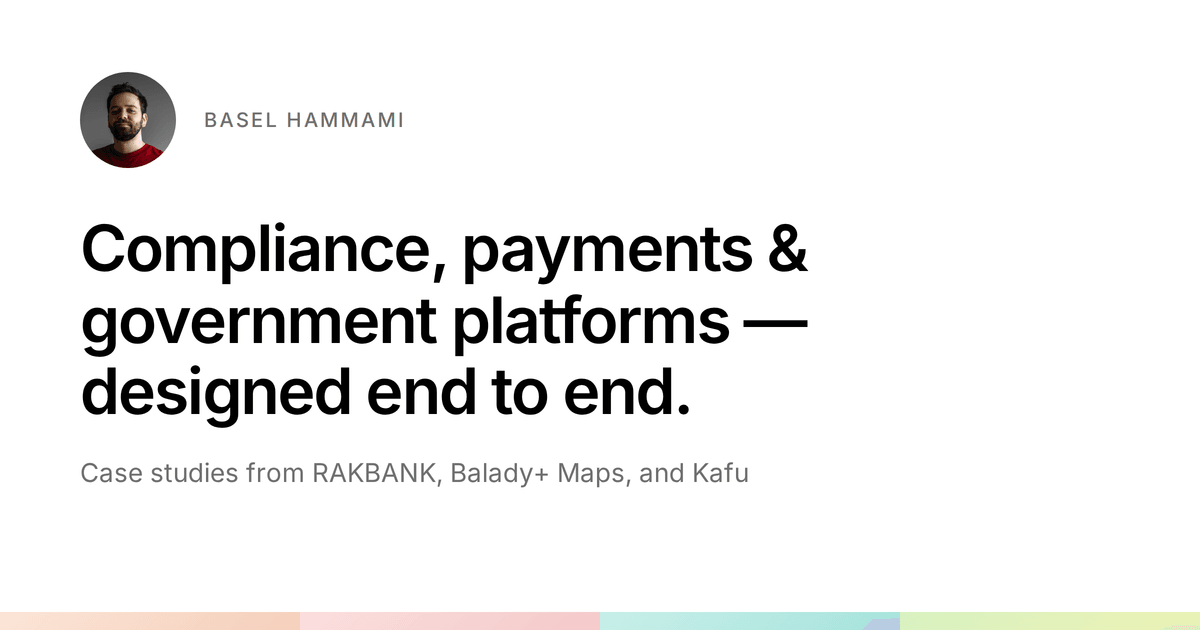
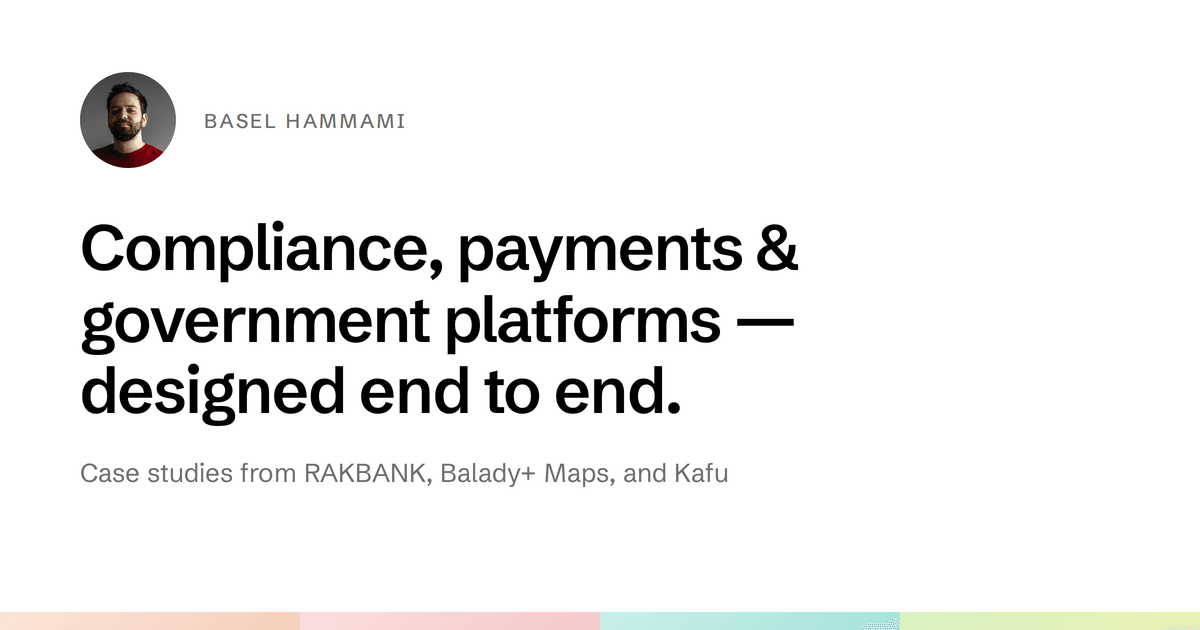
Adopt Schibsted Grotesk site-wide with Inter fallback
Google Fonts request now loads Schibsted Grotesk (400-800) alongside
Inter; the body stack and --font-sans lead with it. Cyrillic text on the
Russian pages falls back to Inter, which covers it. OG share image
regenerated in the new face.

Claude-Session: https://claude.ai/code/session_01WUu2miV5DLnuMkYZak3EoN

diff --git a/styles.css b/styles.css
@@ -8,6 +8,8 @@
   --radius-pill: 999px;
   --ease-out: cubic-bezier(0.22, 1, 0.36, 1);
   --ease-in-out: cubic-bezier(0.4, 0, 0.2, 1);
+  --font-sans: "Schibsted Grotesk", "Inter", -apple-system, BlinkMacSystemFont,
+    "Segoe UI", Roboto, "Helvetica Neue", Arial, sans-serif;
 }
 
 /* ==========================================================================
@@ -126,8 +128,8 @@ body {
 body {
   background: var(--bg);
   color: var(--fg);
-  font-family: "Inter", -apple-system, BlinkMacSystemFont, "Segoe UI", Roboto,
-    "Helvetica Neue", Arial, sans-serif;
+  font-family: "Schibsted Grotesk", "Inter", -apple-system, BlinkMacSystemFont,
+    "Segoe UI", Roboto, "Helvetica Neue", Arial, sans-serif;
   font-size: 16px;
   line-height: 1.5;
   -webkit-font-smoothing: antialiased;

diff --git a/case-mtmx-ru.html b/case-mtmx-ru.html
@@ -18,10 +18,10 @@
     <link rel="preconnect" href="https://fonts.googleapis.com" />
     <link rel="preconnect" href="https://fonts.gstatic.com" crossorigin />
     <link
-      href="https://fonts.googleapis.com/css2?family=Inter:wght@300;400;500;600;700;800&display=swap"
+      href="https://fonts.googleapis.com/css2?family=Schibsted+Grotesk:wght@400;500;600;700;800&family=Inter:wght@300;400;500;600;700;800&display=swap"
       rel="stylesheet"
     />
-    <link rel="stylesheet" href="styles.css?v=47" />
+    <link rel="stylesheet" href="styles.css?v=48" />
     <script defer src="script.js?v=7"></script>
   </head>
   <body class="n-bg n-rakbank">

diff --git a/case-mtmx.html b/case-mtmx.html
@@ -18,10 +18,10 @@
     <link rel="preconnect" href="https://fonts.googleapis.com" />
     <link rel="preconnect" href="https://fonts.gstatic.com" crossorigin />
     <link
-      href="https://fonts.googleapis.com/css2?family=Inter:wght@300;400;500;600;700;800&display=swap"
+      href="https://fonts.googleapis.com/css2?family=Schibsted+Grotesk:wght@400;500;600;700;800&family=Inter:wght@300;400;500;600;700;800&display=swap"
       rel="stylesheet"
     />
-    <link rel="stylesheet" href="styles.css?v=47" />
+    <link rel="stylesheet" href="styles.css?v=48" />
     <script defer src="script.js?v=7"></script>
   </head>
   <body class="n-bg n-rakbank">

diff --git a/case-rakbank-ru.html b/case-rakbank-ru.html
@@ -18,10 +18,10 @@
     <link rel="preconnect" href="https://fonts.googleapis.com" />
     <link rel="preconnect" href="https://fonts.gstatic.com" crossorigin />
     <link
-      href="https://fonts.googleapis.com/css2?family=Inter:wght@300;400;500;600;700;800&display=swap"
+      href="https://fonts.googleapis.com/css2?family=Schibsted+Grotesk:wght@400;500;600;700;800&family=Inter:wght@300;400;500;600;700;800&display=swap"
       rel="stylesheet"
     />
-    <link rel="stylesheet" href="styles.css?v=47" />
+    <link rel="stylesheet" href="styles.css?v=48" />
     <script defer src="script.js?v=7"></script>
   </head>
   <body class="n-bg n-rakbank">

diff --git a/case-rakbank.html b/case-rakbank.html
@@ -18,10 +18,10 @@
     <link rel="preconnect" href="https://fonts.googleapis.com" />
     <link rel="preconnect" href="https://fonts.gstatic.com" crossorigin />
     <link
-      href="https://fonts.googleapis.com/css2?family=Inter:wght@300;400;500;600;700;800&display=swap"
+      href="https://fonts.googleapis.com/css2?family=Schibsted+Grotesk:wght@400;500;600;700;800&family=Inter:wght@300;400;500;600;700;800&display=swap"
       rel="stylesheet"
     />
-    <link rel="stylesheet" href="styles.css?v=47" />
+    <link rel="stylesheet" href="styles.css?v=48" />
     <script defer src="script.js?v=7"></script>
   </head>
   <body class="n-bg n-rakbank">

diff --git a/case-balady-ru.html b/case-balady-ru.html
@@ -18,10 +18,10 @@
     <link rel="preconnect" href="https://fonts.googleapis.com" />
     <link rel="preconnect" href="https://fonts.gstatic.com" crossorigin />
     <link
-      href="https://fonts.googleapis.com/css2?family=Inter:wght@300;400;500;600;700;800&display=swap"
+      href="https://fonts.googleapis.com/css2?family=Schibsted+Grotesk:wght@400;500;600;700;800&family=Inter:wght@300;400;500;600;700;800&display=swap"
       rel="stylesheet"
     />
-    <link rel="stylesheet" href="styles.css?v=47" />
+    <link rel="stylesheet" href="styles.css?v=48" />
     <script defer src="script.js?v=7"></script>
   </head>
   <body class="n-bg n-balady">

diff --git a/case-balady.html b/case-balady.html
@@ -18,10 +18,10 @@
     <link rel="preconnect" href="https://fonts.googleapis.com" />
     <link rel="preconnect" href="https://fonts.gstatic.com" crossorigin />
     <link
-      href="https://fonts.googleapis.com/css2?family=Inter:wght@300;400;500;600;700;800&display=swap"
+      href="https://fonts.googleapis.com/css2?family=Schibsted+Grotesk:wght@400;500;600;700;800&family=Inter:wght@300;400;500;600;700;800&display=swap"
       rel="stylesheet"
     />
-    <link rel="stylesheet" href="styles.css?v=47" />
+    <link rel="stylesheet" href="styles.css?v=48" />
     <script defer src="script.js?v=7"></script>
   </head>
   <body class="n-bg n-balady">

diff --git a/case-cram-ru.html b/case-cram-ru.html
@@ -12,10 +12,10 @@
     <link rel="preconnect" href="https://fonts.googleapis.com" />
     <link rel="preconnect" href="https://fonts.gstatic.com" crossorigin />
     <link
-      href="https://fonts.googleapis.com/css2?family=Inter:wght@300;400;500;600;700;800&display=swap"
+      href="https://fonts.googleapis.com/css2?family=Schibsted+Grotesk:wght@400;500;600;700;800&family=Inter:wght@300;400;500;600;700;800&display=swap"
       rel="stylesheet"
     />
-    <link rel="stylesheet" href="styles.css?v=47" />
+    <link rel="stylesheet" href="styles.css?v=48" />
     <script defer src="script.js?v=7"></script>
   </head>
   <body class="n-bg n-cram">

diff --git a/case-cram.html b/case-cram.html
@@ -12,10 +12,10 @@
     <link rel="preconnect" href="https://fonts.googleapis.com" />
     <link rel="preconnect" href="https://fonts.gstatic.com" crossorigin />
     <link
-      href="https://fonts.googleapis.com/css2?family=Inter:wght@300;400;500;600;700;800&display=swap"
+      href="https://fonts.googleapis.com/css2?family=Schibsted+Grotesk:wght@400;500;600;700;800&family=Inter:wght@300;400;500;600;700;800&display=swap"
       rel="stylesheet"
     />
-    <link rel="stylesheet" href="styles.css?v=47" />
+    <link rel="stylesheet" href="styles.css?v=48" />
     <script defer src="script.js?v=7"></script>
   </head>
   <body class="n-bg n-cram">

diff --git a/case-kafu-ru.html b/case-kafu-ru.html
@@ -18,10 +18,10 @@
     <link rel="preconnect" href="https://fonts.googleapis.com" />
     <link rel="preconnect" href="https://fonts.gstatic.com" crossorigin />
     <link
-      href="https://fonts.googleapis.com/css2?family=Inter:wght@300;400;500;600;700;800&display=swap"
+      href="https://fonts.googleapis.com/css2?family=Schibsted+Grotesk:wght@400;500;600;700;800&family=Inter:wght@300;400;500;600;700;800&display=swap"
       rel="stylesheet"
     />
-    <link rel="stylesheet" href="styles.css?v=47" />
+    <link rel="stylesheet" href="styles.css?v=48" />
     <script defer src="script.js?v=7"></script>
   </head>
   <body class="n-bg n-kafu">

diff --git a/case-kafu.html b/case-kafu.html
@@ -18,10 +18,10 @@
     <link rel="preconnect" href="https://fonts.googleapis.com" />
     <link rel="preconnect" href="https://fonts.gstatic.com" crossorigin />
     <link
-      href="https://fonts.googleapis.com/css2?family=Inter:wght@300;400;500;600;700;800&display=swap"
+      href="https://fonts.googleapis.com/css2?family=Schibsted+Grotesk:wght@400;500;600;700;800&family=Inter:wght@300;400;500;600;700;800&display=swap"
       rel="stylesheet"
     />
-    <link rel="stylesheet" href="styles.css?v=47" />
+    <link rel="stylesheet" href="styles.css?v=48" />
     <script defer src="script.js?v=7"></script>
   </head>
   <body class="n-bg n-kafu">

diff --git a/index-ru.html b/index-ru.html
@@ -18,10 +18,10 @@
     <link rel="preconnect" href="https://fonts.googleapis.com" />
     <link rel="preconnect" href="https://fonts.gstatic.com" crossorigin />
     <link
-      href="https://fonts.googleapis.com/css2?family=Inter:wght@300;400;500;600;700&display=swap"
+      href="https://fonts.googleapis.com/css2?family=Schibsted+Grotesk:wght@400;500;600;700;800&family=Inter:wght@300;400;500;600;700;800&display=swap"
       rel="stylesheet"
     />
-    <link rel="stylesheet" href="styles.css?v=47" />
+    <link rel="stylesheet" href="styles.css?v=48" />
     <script defer src="script.js?v=7"></script>
   </head>
   <body>
